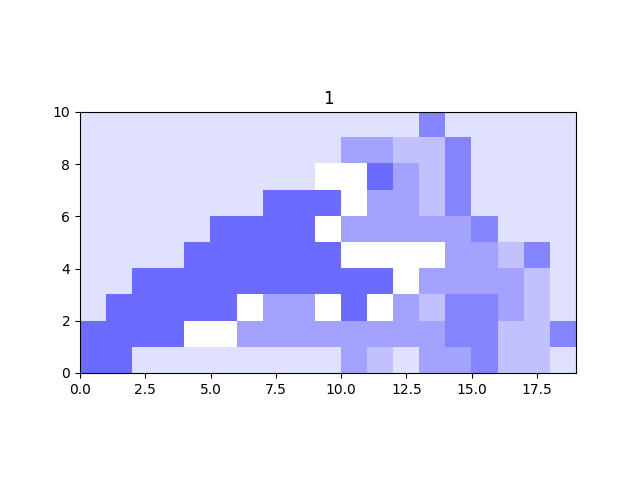
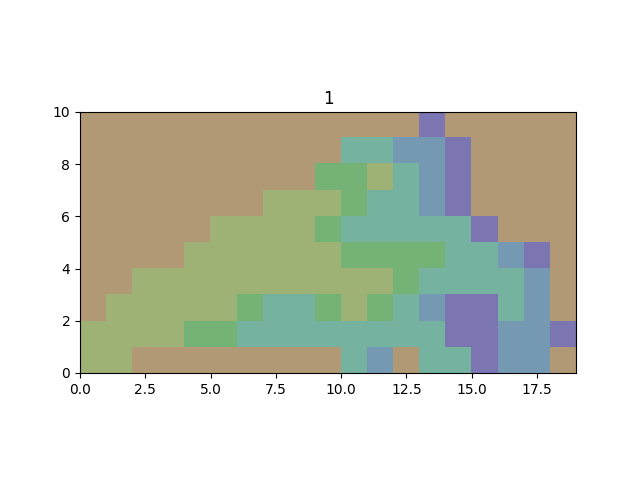
fixed clusters to order them by peak swe for each year consistently

diff --git a/load_rdata.py b/load_rdata.py
@@ -37,18 +37,29 @@ def color_interpolation(start, end, steps):
     color_slope = tuple([(start[i], (start[i] - end[i])/steps) for i in range(len(start))])
     return lambda step : tuple(slope[0] - (slope[1] * step) for slope in color_slope)
 
+import colorsys
+def color_discretization(num_colors, min_hue = .1, max_hue = .8, saturation=.8, value=.5):
+    color_list = [] 
+    for x in range(num_colors):
+        hue = (float(x)/(num_colors))*(max_hue-min_hue) + min_hue
+        color = colorsys.hsv_to_rgb(hue, saturation, value)
+        color_list.append(color)
+    
+    return color_list
+
 ##visualize the melt dates
 def graph_watershed_data(grid_data, colors=None, show=False, save=True, title=None):
         grid_data=np.flip(grid_data.T, axis=0)
         #linearly interpolate for 100 colors 
         topo = mpimage.imread("hja_lidar.png")
-        color_quantity = 30
-        colors_fx = color_interpolation((1, 1, 1), (0, 0, 1), color_quantity)
-        colors_list = [colors_fx(x) for x in range(color_quantity)]
+        color_quantity = len(np.unique(grid_data))
+        
+        #colors_fx = color_interpolation((1, 1, 1), (0, 0, 1), color_quantity)
+        #colors_list = [colors_fx(x) for x in range(color_quantity)]
+        colors_list = color_discretization(color_quantity)
         colors_bounds = [0 + x * (grid_data.max()/color_quantity) for x in range(color_quantity+1)] 
         cmap = mpl.colors.ListedColormap(colors_list)
         norm = mpl.colors.BoundaryNorm(colors_bounds, cmap.N+1)
-
         extent = 0, grid_data.shape[1], 0, grid_data.shape[0]
         #bg = plt.imshow(topo, cmap='Greys', extent=extent)
         img = plt.imshow(grid_data, interpolation='nearest', origin='lower', cmap=cmap, norm=norm, alpha=.6, extent=extent)# cmap)
@@ -100,6 +111,7 @@ def load_swe_csv():
 cutoff_swe = .1 
 def clean_swe_matrix():
     matrix = np.load("swe_matrix.npy")
+    peak_matrix = np.zeros((matrix.shape[0], matrix.shape[2], matrix.shape[3]))
     matrix_max = np.max(matrix)
     matrix_min = np.min(matrix)
     pdb.set_trace()
@@ -116,8 +128,8 @@ def clean_swe_matrix():
                     day_list[0] = 0
                 if np.isnan(day_list[-1]):
                     day_list[-1] = 0
-                if lat == 6 and lon == 6: #debug
-                    pdb.set_trace()
+                #if lat == 6 and lon == 6: #debug
+                    #pdb.set_trace()
                 idxs = np.arange(day_list.shape[0])
                 day_list[day_list < 0] = np.nan
                 good_vals = np.isfinite(day_list)
@@ -129,14 +141,15 @@ def clean_swe_matrix():
                     skip_cnt += 1
                     continue#skip the grid-cell-day if there is not enough data
                 valid_grid_day_cnt += 1
+                peak_matrix[year, lat, lon] = np.max(day_list)
                 matrix[year, :, lat, lon] = (day_list - np.min(day_list)) / (np.max(day_list) - np.min(day_list))
 
-                print(f'!!!Graphed {year} at {lat}-{lon}')
-                if year > 1:
-                    graph_day_coord_swe(matrix[year, :, lat, lon], year, lat, lon)
+                #print(f'!!!Graphed {year} at {lat}-{lon}')
+                #if year > 1:
+                    #graph_day_coord_swe(matrix[year, :, lat, lon], year, lat, lon)
                 #pdb.set_trace()
-    pdb.set_trace()
     np.save("swe_matrix_clean.npy", matrix)
+    np.save("peak_matrix_clean.npy", peak_matrix)
     np.save("swe_data_mask.npy", data_mask)
     print(valid_grid_day_cnt)
     print(skip_cnt)
@@ -158,7 +171,6 @@ def compute_swe_distance(distance_fx):
     print(matrix.shape)
     latlon_1d = lambda lat, lon : lat * matrix.shape[2] + lon
     latlon_2d = lambda latlon1d : (int(latlon1d / matrix.shape[2]), latlon1d % matrix.shape[2])
-    pdb.set_trace()
     #distance_latlon = np.ones((max_1d_latlon_idx, max_1d_latlon_idx)) * 1000
     distance_latlon = np.ones((matrix.shape[0], matrix.shape[2], matrix.shape[3], matrix.shape[2], matrix.shape[3])) * -1
     for year in range(matrix.shape[0]):
@@ -204,15 +216,22 @@ def do_clustering():
                     #graph_watershed_data(distances[year, lat, lon], save=True, show=False, title="{}, {}-{}".format(year, lat, lon))
 
     from sklearn.cluster import KMeans
+    peak_matrix = np.load("peak_matrix_clean.npy")
     for year in range(distances.shape[0]):
         kmeans = KMeans(n_clusters =6, random_state=0).fit(flatten[year])
         clusters = np.reshape(kmeans.labels_, (19, 10))
-        avg_cluster_swe = [0] * len(np.unique(clusters))
-        for lat, lat_row in enumerate(clusters):
-            for lon, cluster_num in enumerate(lat_row):
-        pdb.set_trace()
-        graph_watershed_data(clusters, save=True, show=False, title=f"{year}")
+        avg_cluster_peak = [0] * len(np.unique(clusters))
+        for cluster_label in np.unique(clusters):
+            avg_cluster_peak[cluster_label] = np.average(peak_matrix[year][np.where(clusters == cluster_label)])
 
+        reordered = sorted(list(enumerate(avg_cluster_peak)), key=lambda x : x[1])
+        clusters_ordered = np.zeros(clusters.shape, dtype=np.int32)
+        for new_label, old_label in enumerate(reordered):
+            clusters_ordered[np.where(clusters == old_label[0])] = new_label
+        
+        graph_watershed_data(clusters_ordered, save=True, show=False, title=f"{year}")
+
+        np.savetxt(f"spatial_clusters_data/clusters_year_{year}.csv", clusters_ordered.T, delimiter=',')
         data_matrix = np.load("swe_matrix_clean.npy")
 
         #if year > 1:
